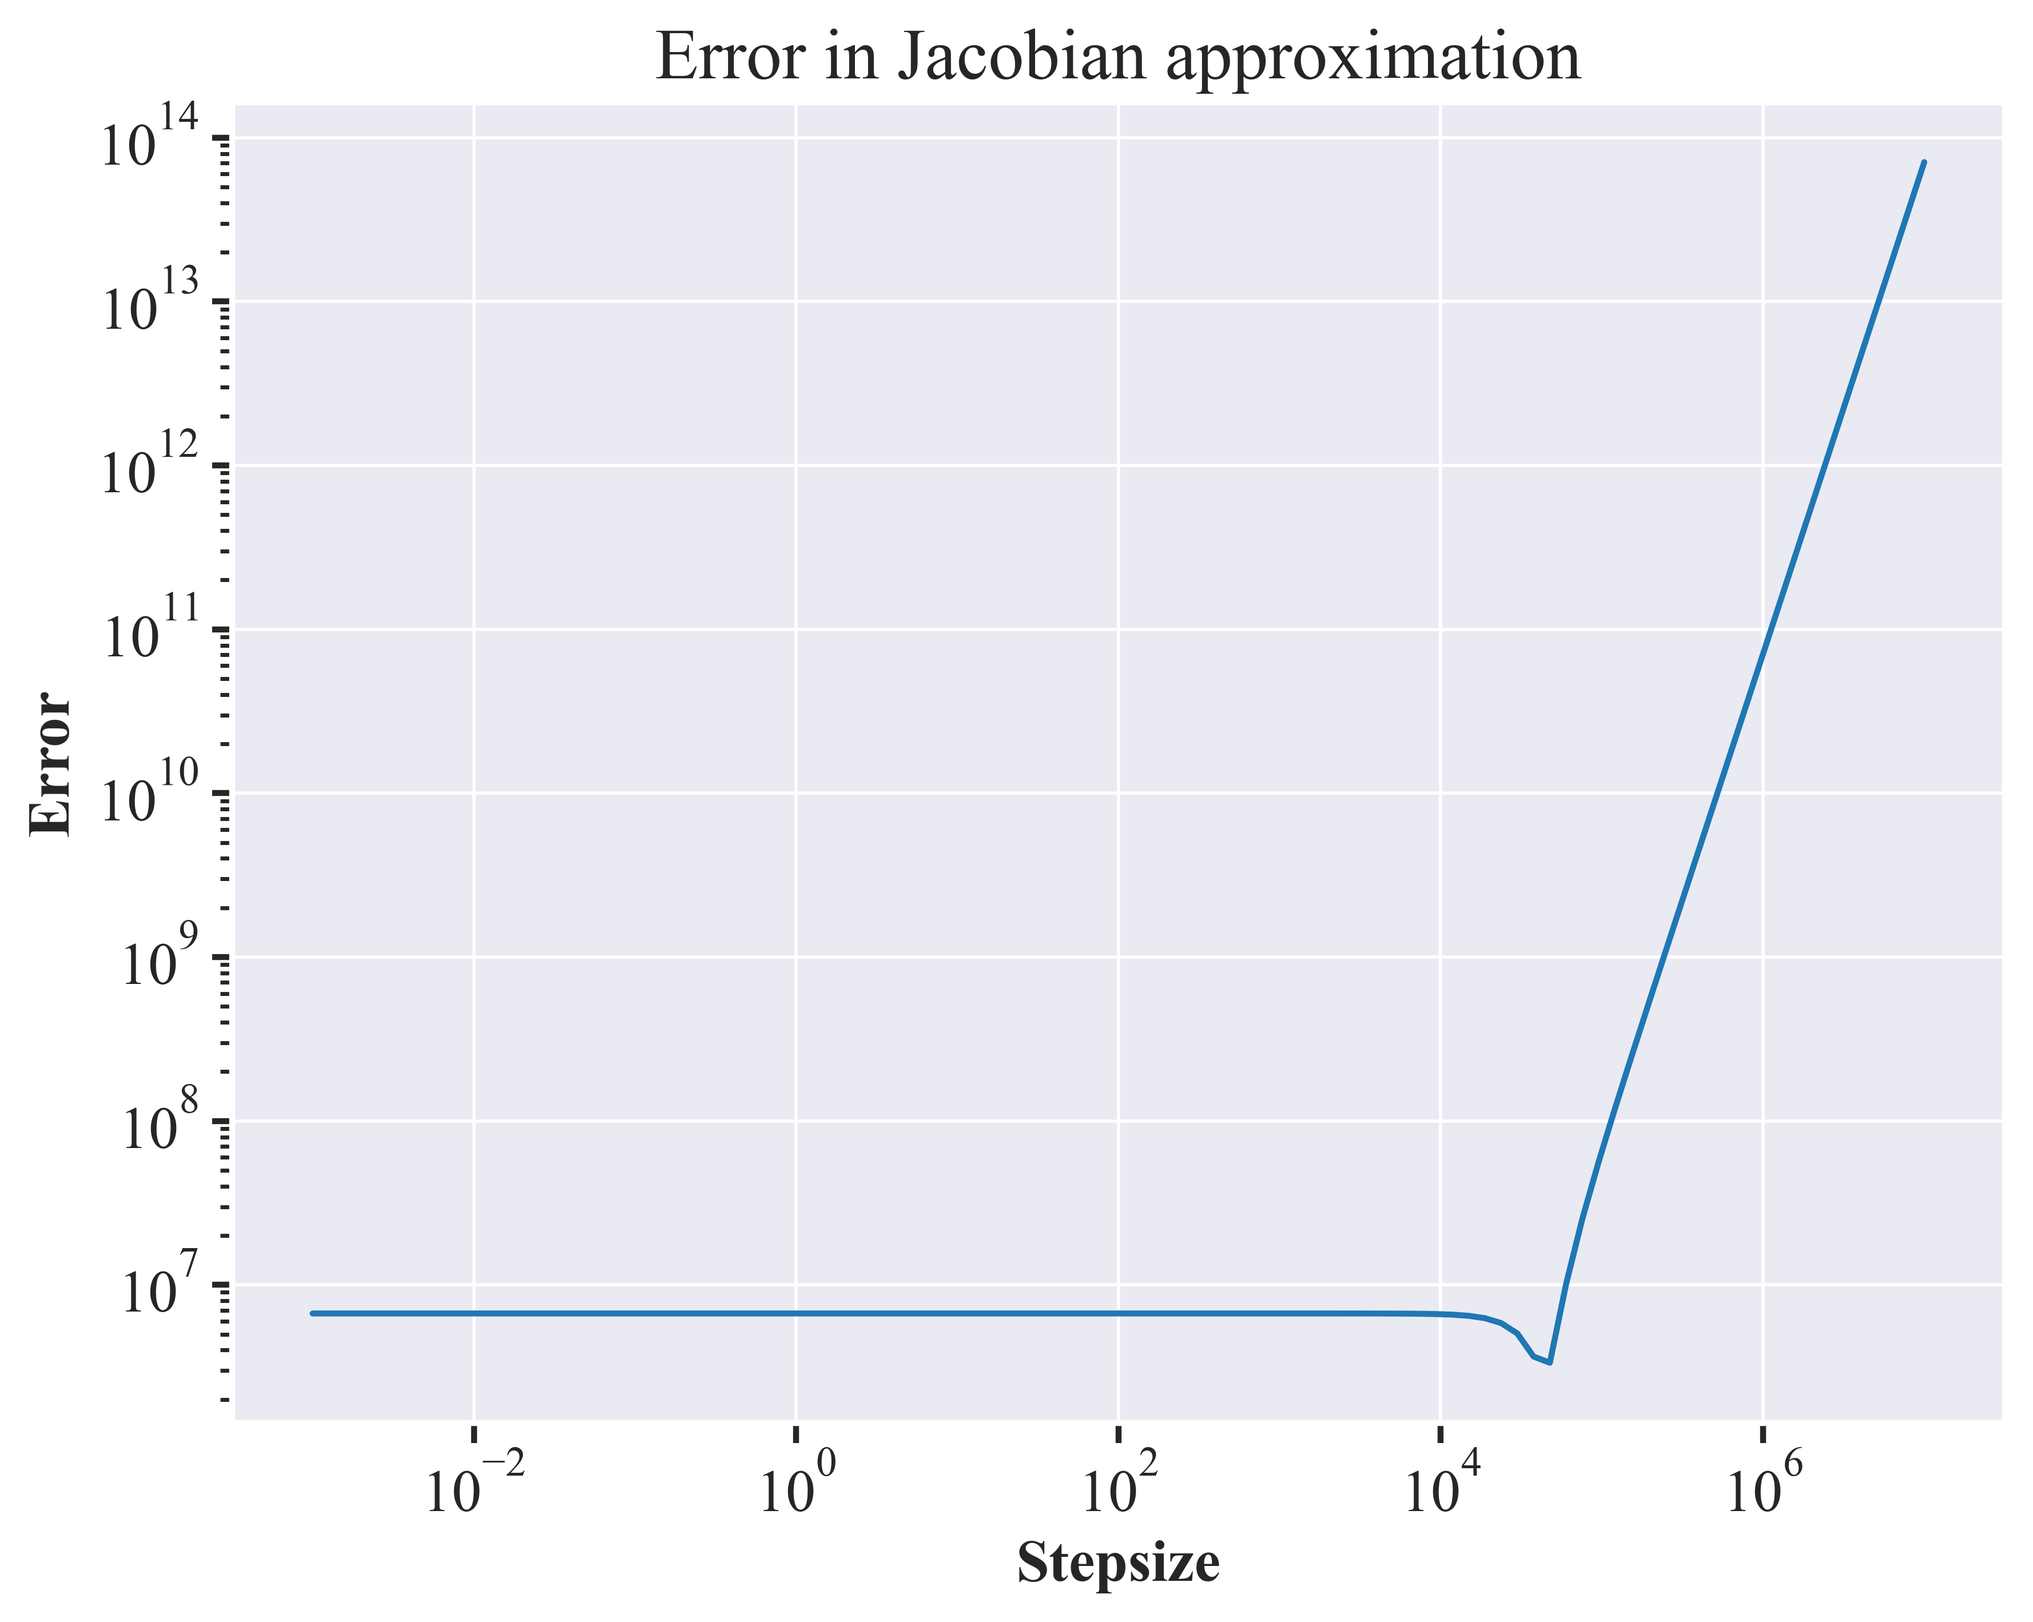
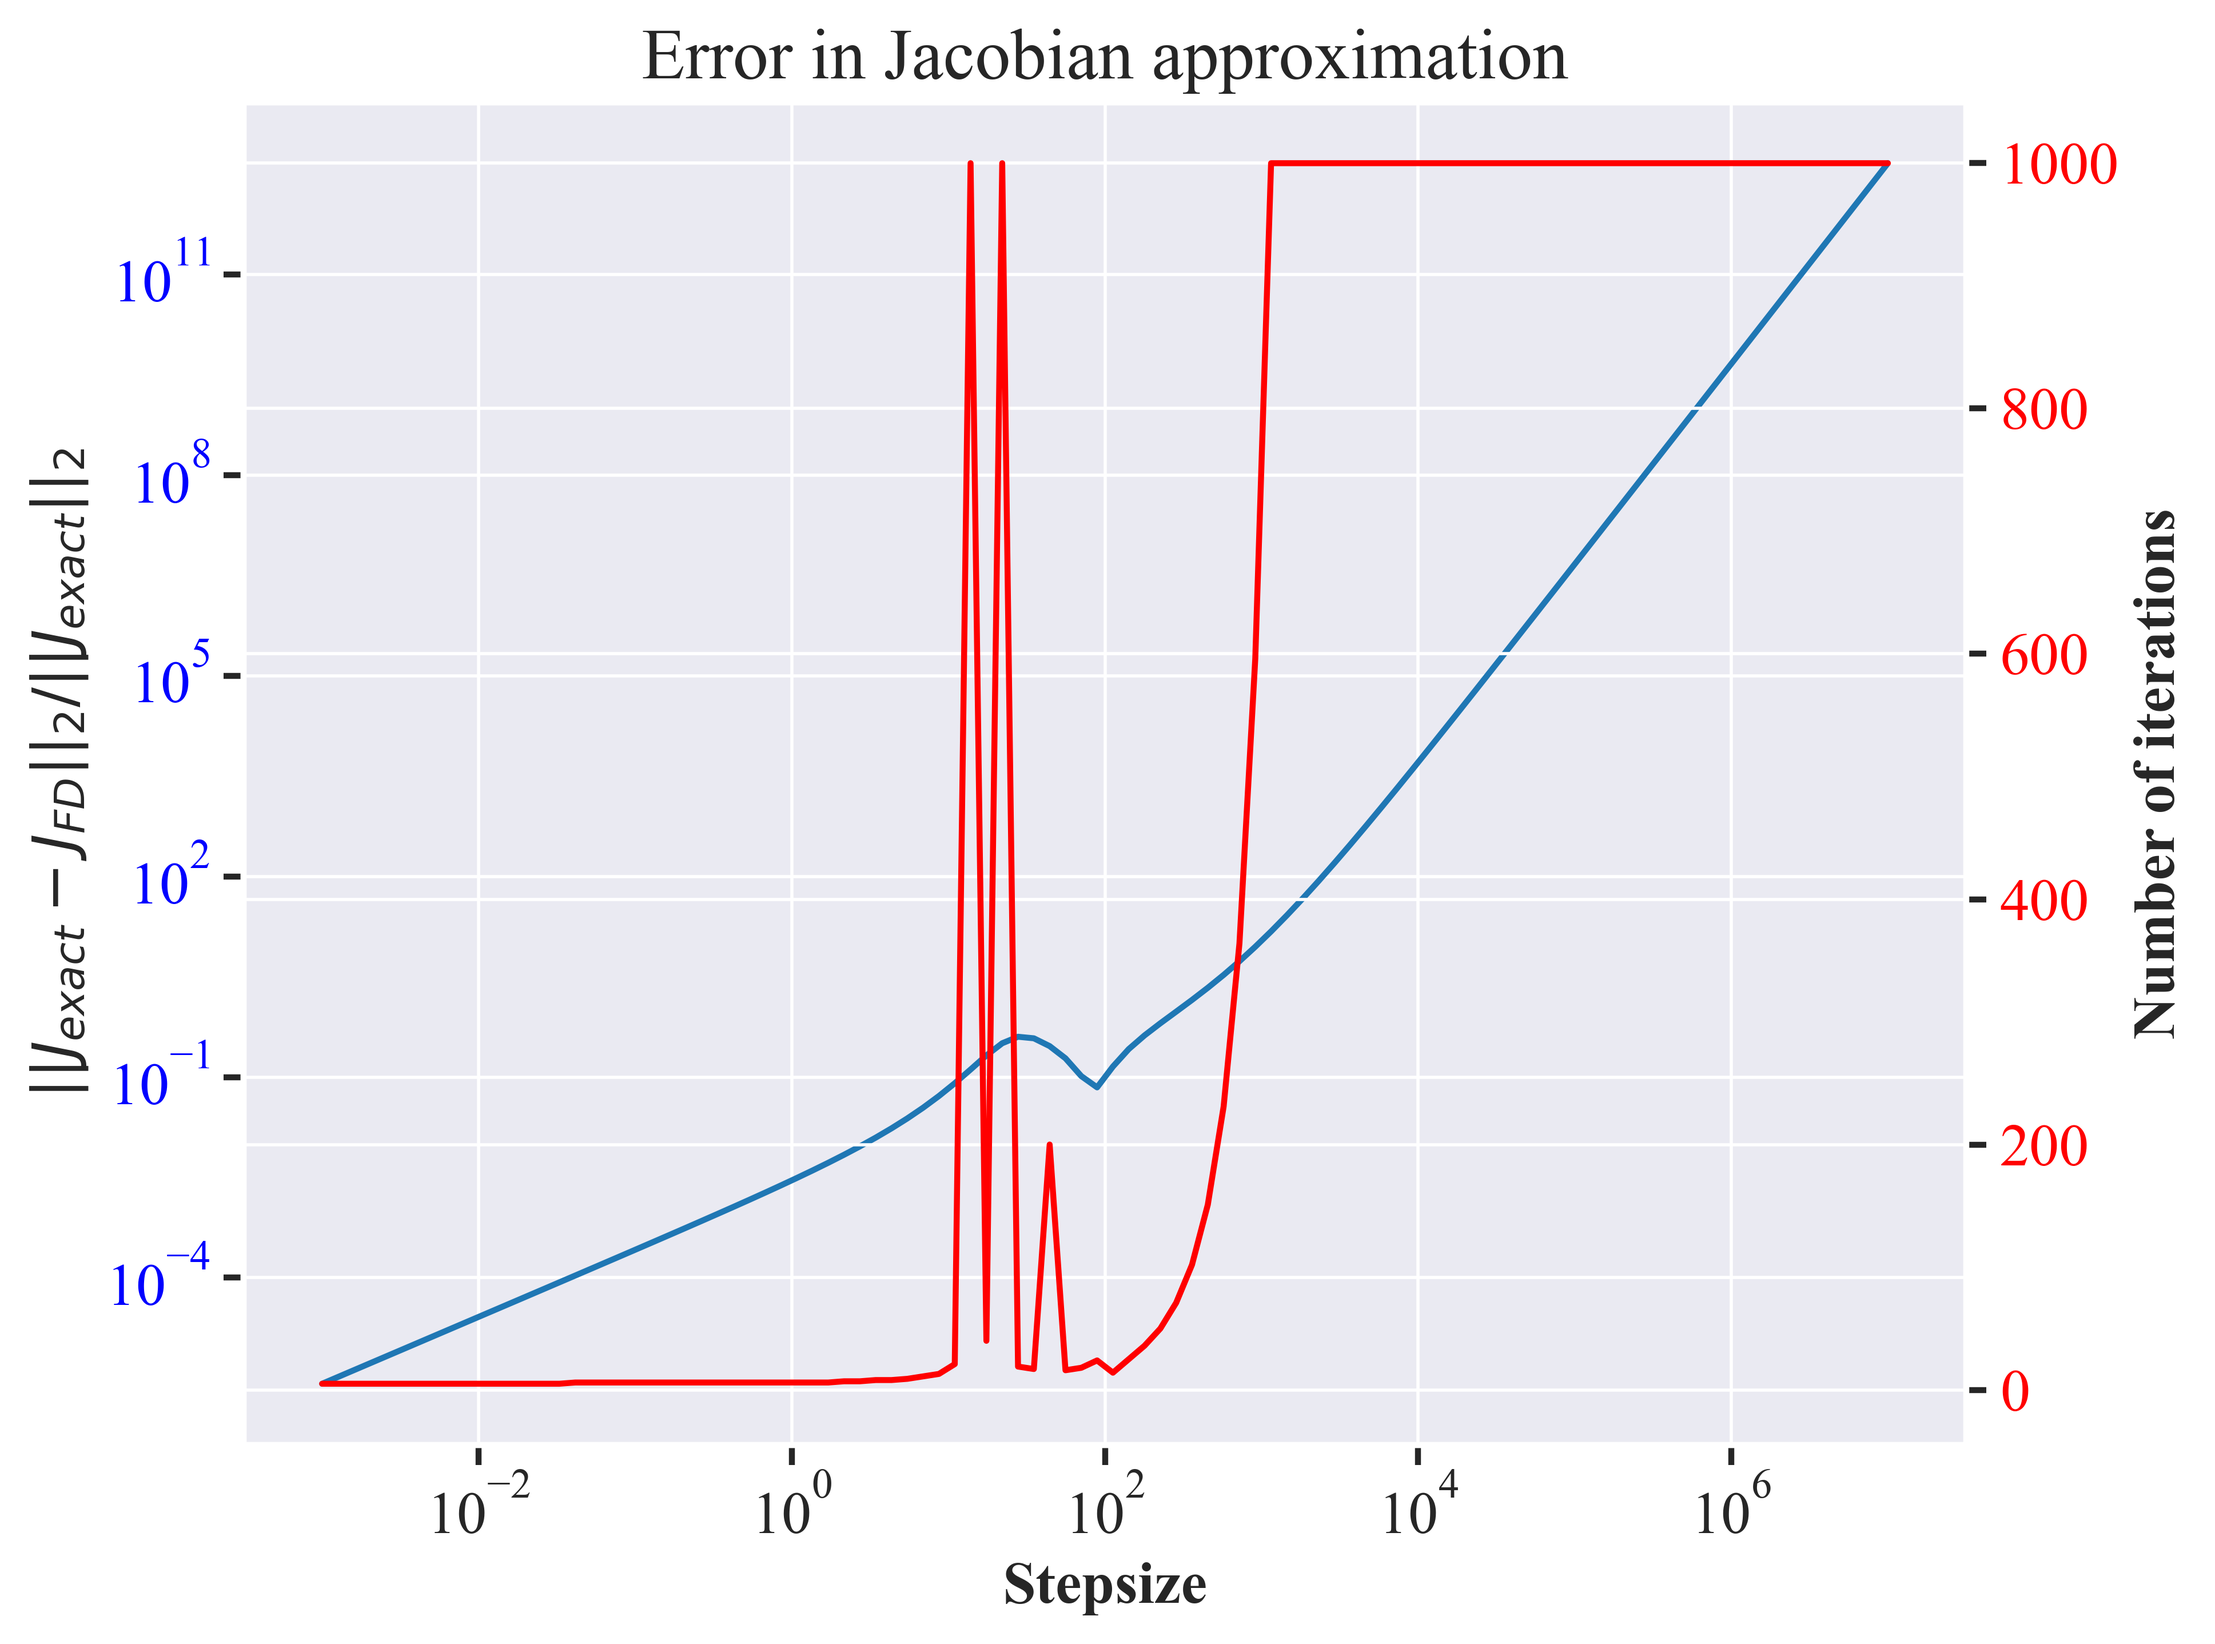
fixed incorrect exact jacobian (derivative of radiation term) + updated figs

diff --git a/code/ebm_experiments.py b/code/ebm_experiments.py
@@ -43,7 +43,7 @@ print("Saved initial guess for T to:\n  ", fn)
 
 ################### Newton-Raphson Method ####################
 rootfinding = RootFinding(maxiter=1000)
-
+rootfinding.output = True
 # run Newton-Raphson method
 errors = rootfinding.newtonRaphson(ebm)
 T_final_exact = ebm.T_x(ebm.x)
@@ -52,31 +52,51 @@ conv_exact = rootfinding.converged
 # run Newton-Raphson method with finite difference
 ebm.T_coeffs = np.zeros(n)
 ebm.T_coeffs[0] = initial_temperature
-errors_fd = rootfinding.newtonRaphson(ebm, exact=False, stepsize=1e3)
+errors_fd = rootfinding.newtonRaphson(ebm, exact=False, stepsize=1e-2)
 T_final_fd = ebm.T_x(ebm.x)
 conv_fd = rootfinding.converged
 
 # plot error convergence
 plt.close()
-plt.plot(errors, label="Exact Jacobian")
-if conv_exact: 
-    marker = 'rx'
-    label = "convergence" 
-else: 
-    marker = 'ro'
+plt.plot(np.arange(len(errors)), errors, label="Exact Jacobian", color="blue")
+if conv_exact:
+    marker = "x"
+    label = "convergence"
+else:
+    marker = "o"
     label = "no convergence"
-plt.plot(len(errors), errors[-1], marker, label=label)
-plt.plot(errors_fd, label="Finite Difference Jacobian")
-if conv_fd: 
-    marker = 'rx'
-    label = "convergence" 
-else: 
-    marker = 'ro'
+plt.plot(
+    len(errors) - 1,
+    errors[-1],
+    linestyle="None",
+    marker=marker,
+    label=label,
+    color="blue",
+)
+plt.plot(
+    np.arange(len(errors_fd)),
+    errors_fd,
+    label="Finite Difference Jacobian",
+    linestyle="--",
+    color="orange",
+)
+if conv_fd:
+    marker = "x"
+    label = "convergence"
+else:
+    marker = "o"
     label = "no convergence"
-plt.plot(len(errors_fd), errors_fd[-1], marker, label=label)
-plt.title("Error convergence")
+plt.plot(
+    len(errors_fd) - 1,
+    errors_fd[-1],
+    linestyle="None",
+    marker=marker,
+    label=label,
+    color="orange",
+)
+plt.title("Norm of non-linear system")
 plt.xlabel("Iteration")
-plt.ylabel("Error")
+plt.ylabel("$||F(T_k)||_2$")
 # plt.yscale("log")
 plt.legend()
 fn = output_dir / "error_convergence.png"
@@ -85,8 +105,14 @@ print("Saved error convergence to:\n  ", fn)
 
 # plot final solution
 plt.close()
-plt.plot(ebm.x, T_final_exact, label="Exact Jacobian")
-plt.plot(ebm.x, T_final_fd, label="Finite Difference Jacobian")
+plt.plot(ebm.x, T_final_exact, label="Exact Jacobian", color="blue")
+plt.plot(
+    ebm.x,
+    T_final_fd,
+    label="Finite Difference Jacobian",
+    linestyle="--",
+    color="orange",
+)
 plt.title("Final solution for T")
 plt.legend()
 fn = output_dir / "equilibrium_T.png"
@@ -101,18 +127,36 @@ ebm.T_coeffs[0] = initial_temperature
 _ = rootfinding.newtonRaphson(ebm)  # find equilibrium solution
 jacobian_exact = ebm.evaluate_derivative()
 print("Running finite difference jacobian approximation analysis...")
+jacobian_exact_nrm = np.linalg.norm(jacobian_exact, ord=2)
 for h in stepsizes:
     jacobian_fd = ebm.evaluate_derivative_finite_difference(h)
-    error = np.linalg.norm(jacobian_exact - jacobian_fd, ord=2)
+    error = np.linalg.norm(jacobian_exact - jacobian_fd, ord=2) / jacobian_exact_nrm
     errors.append(error)
 
 plt.close()
-plt.plot(stepsizes, errors)
-plt.xscale("log")
-plt.yscale("log")
-plt.title("Error in Jacobian approximation")
-plt.xlabel("Stepsize")
-plt.ylabel("Error")
+fig, ax = plt.subplots(layout="tight")
+ax.plot(stepsizes, errors)
+ax.set_xscale("log")
+ax.set_yscale("log")
+ax.set_title("Error in Jacobian approximation")
+ax.set_xlabel("Stepsize")
+ax.set_ylabel("$||J_{exact} - J_{FD}||_2 / ||J_{exact}||_2$")
+ax.tick_params(axis="y", labelcolor="blue")
+
+# check convergence of Newton-Raphson method using FD jacobian vs stepsize
+num_iterations = np.zeros_like(stepsizes)
+rootfinding.output = False
+for i, h in enumerate(stepsizes):
+    ebm.T_coeffs = np.zeros(n)
+    ebm.T_coeffs[0] = initial_temperature
+    errors = rootfinding.newtonRaphson(ebm, exact=False, stepsize=h)
+    num_iterations[i] = len(errors)
+
+secax_y = ax.twinx()
+secax_y.plot(stepsizes, num_iterations, color="red")
+secax_y.set_ylabel("Number of iterations")
+secax_y.tick_params(axis="y", labelcolor="red")
+
 fn = output_dir / "jacobian_approximation_error.png"
 plt.savefig(fn, dpi=500)
 print("Saved jacobian approximation error to:\n  ", fn)

diff --git a/code/classes/ebm.py b/code/classes/ebm.py
@@ -120,32 +120,40 @@ class EBM(NonLinearSystem):
 
     def evaluate_derivative(self) -> np.ndarray:
         """
-
         Returns:
         --------
-        np.ndarray: matrix such that out[i,j] = int_{-1}{1} [(lambda_j + dR_A(T) - dR_E(T)) * phi_j] * phi_i dx
+        np.ndarray: matrix such that out[i,j] = int_{-1}{1} [(lambda_j + dR_A(T) - dR_E(T))] * phi_j * phi_i dx
         """
         T = self.T_eval()
         integrand = self.energy_balance_derivative(T)
         test_function = self.legendre_polys
-        weak_form_derivative = np.einsum("js,is->ijs", integrand, test_function)
-        # return np.einsum("ijs,s->ij", weak_form_derivative, self.quad_weights)
+        weak_form_derivative = np.einsum("is,js->ijs", integrand, test_function)
         return weak_form_derivative @ self.quad_weights
 
-    def evaluate_derivative_finite_difference(self, h: float = 1e-6) -> np.ndarray:
+    def evaluate_derivative_finite_difference(
+        self, h: float = 1e-6, order: int = -1
+    ) -> np.ndarray:
         """
-        Evaluate the derivative of the non-linear system of equations using finite difference.
+        Evaluate the derivative of the non-linear system of equations using finite differences.
+
+        Args:
+        h (float); specifies step size for finite difference
+        !!!NI order (int); specifies the order of the finite difference method.
+            2 -> central difference
+            1 -> forward difference
+            -1 -> backward difference
 
         Returns:
         --------
         np.ndarray: matrix such that out[i,j] = (F(T(a_i + h))[j] - F(T)[j]) / h
         """
+        # TODO: implement other finite difference methods (backward, central difference, etc...)
         T_coeffs_plus_h = self.T_coeffs + h * np.eye(self.n_polys)
         T_plus_h = T_coeffs_plus_h @ self.legendre_polys
         integrand = (
             self.energy_balance(T_plus_h, T_coeffs_plus_h)
             - self.energy_balance(self.T_eval())
-        ) / h  # [EBM(x, T(a + e_i*h)) - EBM(x, T)] / h
+        ) / h  # [EBM(x, T(a + e_j*h)) - EBM(x, T)] / h
         test_function = self.legendre_polys
         return np.einsum("is,js->ijs", integrand, test_function) @ self.quad_weights
 
@@ -174,10 +182,11 @@ class EBM(NonLinearSystem):
         np.ndarray (n, m): The derivative of the energy balance terms evaluated at the given coefficients.
             m is the number of sample points and n is the number of Legendre polynomials.
         """
-        return (
-            self.dR_D()
-            + (self.dR_A(self.quad_samples, T) - self.dR_E(T)) * self.legendre_polys
-        )
+        diffusion_term = self.dR_D()
+        flux_terms = (
+            self.dR_A(self.quad_samples, T) - self.dR_E(T)
+        ) * self.legendre_polys
+        return diffusion_term + flux_terms
 
     # solar radiation (R_A)
     def R_A(self, x: np.ndarray, T: np.ndarray) -> np.ndarray:
@@ -185,7 +194,7 @@ class EBM(NonLinearSystem):
 
     @staticmethod
     def dR_A(x: np.ndarray, T: np.ndarray) -> np.ndarray:
-        return EBM.Q_solar(x) * EBM.dalbedo(T)
+        return -EBM.Q_solar(x) * EBM.dalbedo(T)
 
     @staticmethod
     def Q_solar(x: np.ndarray) -> np.ndarray:
@@ -199,7 +208,9 @@ class EBM(NonLinearSystem):
 
     @staticmethod
     def dalbedo(T: np.ndarray) -> np.ndarray:
-        return EBM.M * (EBM.a_2 - EBM.a_1) / (2 * np.cos(EBM.M * (T - EBM.T_star)) ** 2)
+        return (
+            EBM.M * (EBM.a_2 - EBM.a_1) / (2 * np.cosh(EBM.M * (T - EBM.T_star)) ** 2)
+        )
 
     # Black body radiation (R_E)
     @staticmethod
@@ -235,4 +246,4 @@ class EBM(NonLinearSystem):
         np.ndarray (n, m): The derivative of the dispersion term evaluated at the given coefficients.
             m is the number of sample points and n is the number of Legendre polynomials.
         """
-        return self.legendre_eigs[:, None] / self.D * self.legendre_polys
+        return (self.legendre_eigs[:, None] / self.D) * self.legendre_polys

diff --git a/code/classes/root_finding.py b/code/classes/root_finding.py
@@ -9,27 +9,28 @@ class RootFinding:
         self.tolerance = tolerance
         self.maxiter = maxiter
         self.converged = False
+        self.output = False
 
     def newtonRaphson(
         self, NLS: NonLinearSystem, exact: bool = True, stepsize: float = 1e-6
     ) -> list:
         error = np.linalg.norm(NLS.evaluate())
-        errors = [error]
+        errors = []
         i = 0
         if exact:
-            print(f"Running Newton-Raphson with exact derivatives...")
+            self.print(f"Running Newton-Raphson with exact derivatives...")
         else:
-            print(
+            self.print(
                 f"Running Newton-Raphson with finite difference derivatives (h = {stepsize})..."
             )
         pbar = tqdm(desc="", total=self.maxiter, unit="NR update", miniters=5)
         while error > self.tolerance:
             pbar.set_description(
-                f"iteration: {i}, error: {errors[i]:.2e}, tolerance: {self.tolerance:.2e}, maxiter: {self.maxiter}"
+                f"iteration: {i}, error: {error:.2e}, tolerance: {self.tolerance:.2e}, maxiter: {self.maxiter}"
             )
             if i == self.maxiter:
                 pbar.close()
-                print(
+                self.print(
                     "Newton-Raphson method did not converge within the maximum number of iterations. Exiting..."
                 )
                 break
@@ -53,12 +54,16 @@ class RootFinding:
         if error <= self.tolerance:
             pbar.close()
             self.converged = True
-            print("Newton-Raphson converged.")
+            self.print("Newton-Raphson converged.")
 
         return errors
-    
+
     def broydensMethod() -> None:
         pass
 
     def arcLength() -> None:
         pass
+
+    def print(self, message: str) -> None:
+        if self.output:
+            print(message)

diff --git a/code/helper/pyutils.py b/code/helper/pyutils.py
@@ -95,3 +95,19 @@ def set_style():
     plt.rcParams["savefig.transparent"] = False
     plt.rcParams["savefig.orientation"] = "landscape"
     # plt.rcParams["savefig.frameon"] = False
+
+
+MPL_COLORS = {
+    "blue": "#1f77b4",
+    "orange": "#ff7f0e",
+    "green": "#2ca02c",
+    "red": "#d62728",
+    "purple": "#9467bd",
+    "brown": "#8c564b",
+    "pink": "#e377c2",
+    "gray": "#7f7f7f",
+    "olive": "#bcbd22",
+    "cyan": "#17becf",
+    "black": "#000000",
+    "white": "#ffffff",
+}
